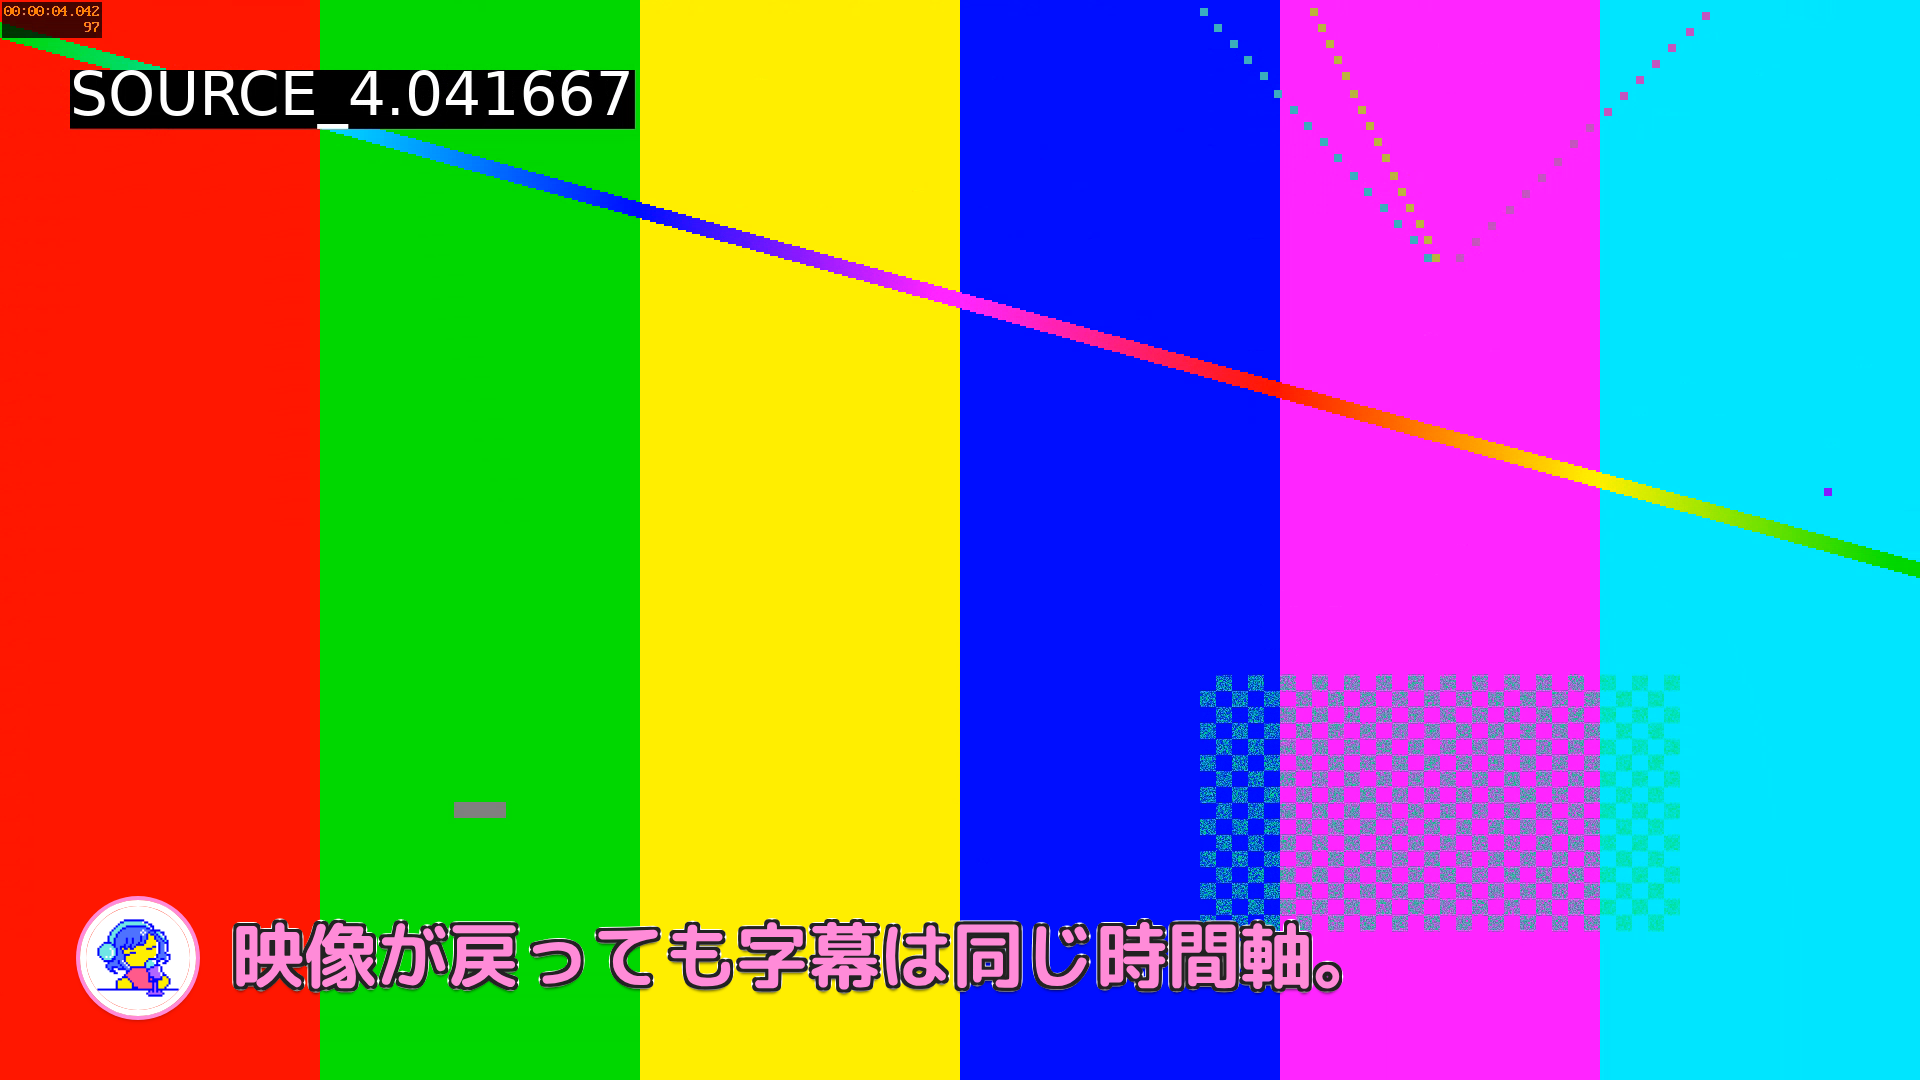
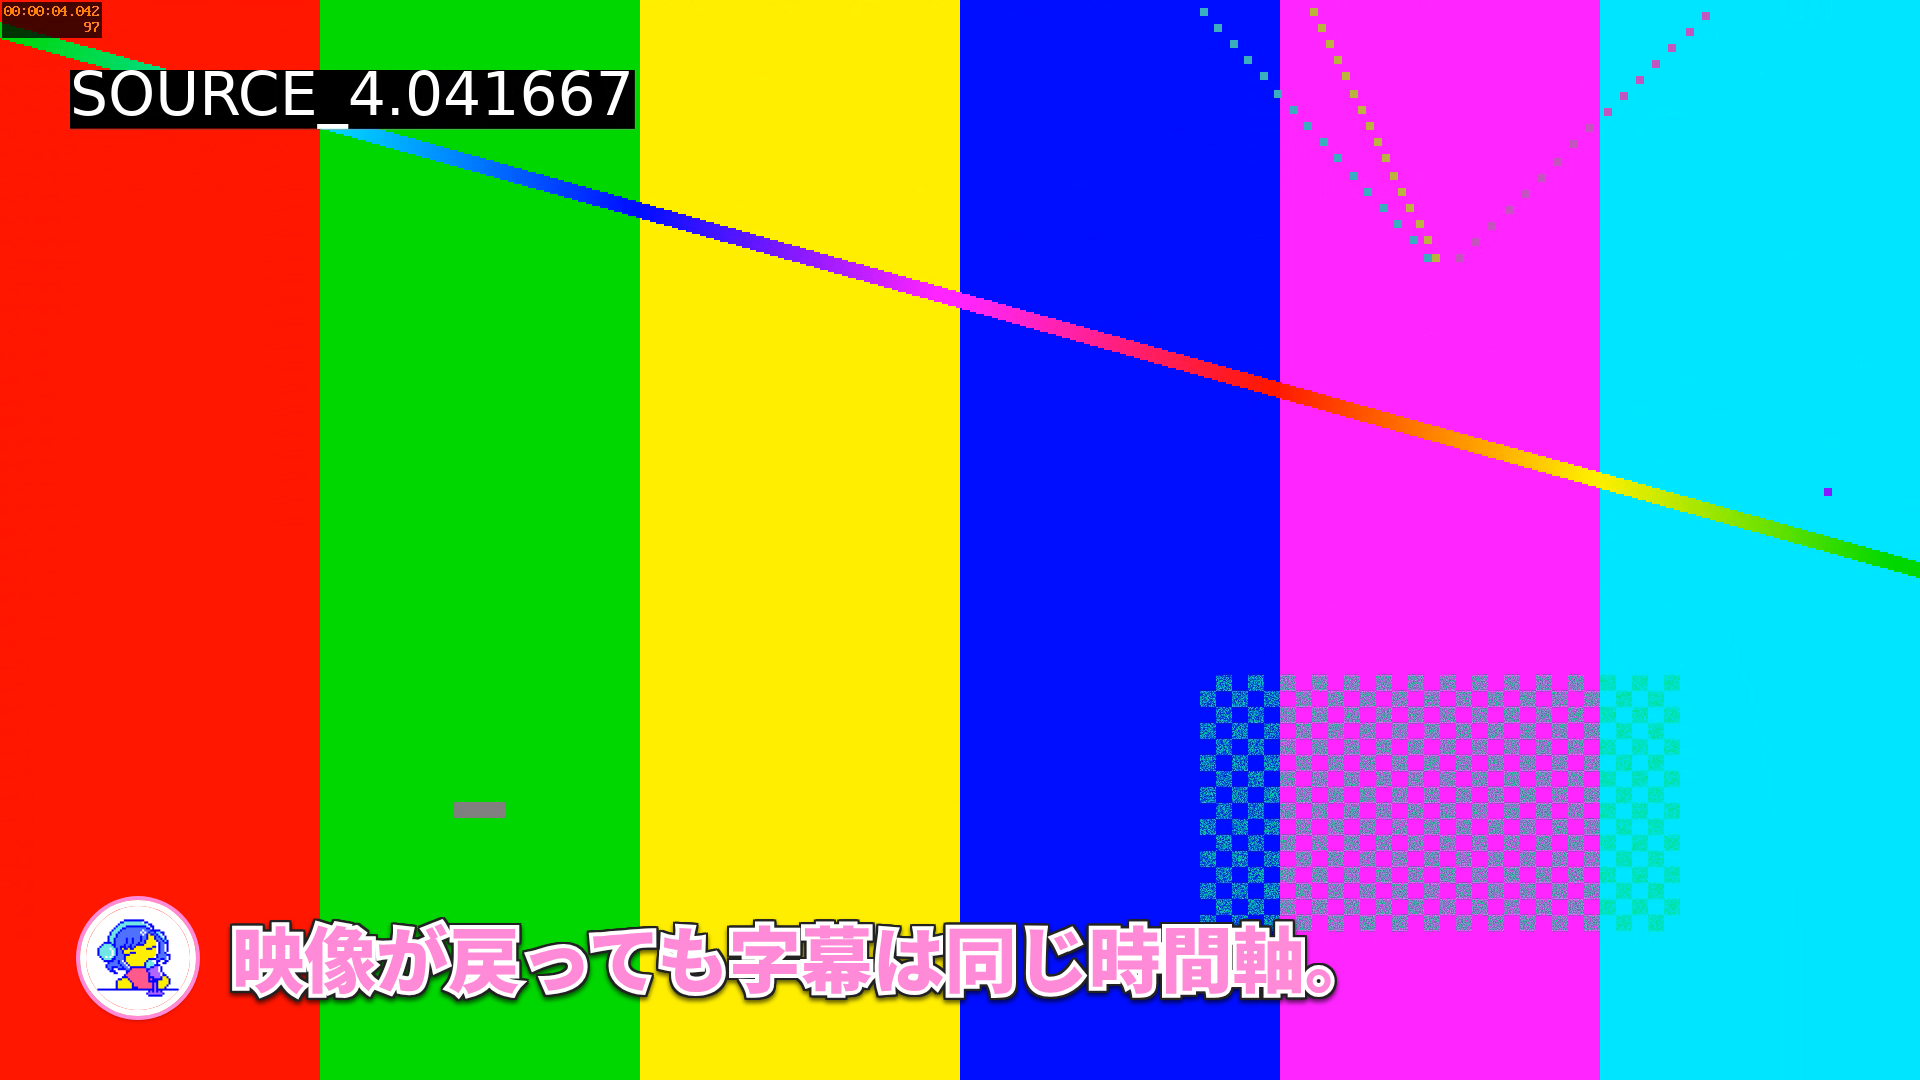
Use Noto Sans JP Black for street video captions

Changed region(s): [[0.0938, 0.8556, 0.7188, 0.9472]]

diff --git a/video/src/episode/EpisodeCaption.tsx b/video/src/episode/EpisodeCaption.tsx
@@ -1,6 +1,8 @@
-import { BODY } from "../Clip";
+import { loadFont } from "@remotion/google-fonts/NotoSansJP";
 import type { CaptionPage } from "../types";
 import { SPEAKER_COLORS } from "./EpisodeSpeakerBar";
+
+const telop = loadFont("normal", { weights: ["900"] });
 
 export function findCaptionPage(pages: CaptionPage[], t: number) {
 	let lo = 0;
@@ -29,16 +31,16 @@ export function EpisodeCaption({
 	return (
 		<div
 			style={{
-				fontFamily: BODY,
-				fontWeight: 700,
+				fontFamily: telop.fontFamily,
+				fontWeight: 900,
 				fontSize: Math.min(72, 1510 / maxChars),
 				lineHeight: 1.3,
 				textAlign: "left",
 				color: SPEAKER_COLORS[page.speaker ?? "guest"],
 				WebkitTextStroke: "8px white",
 				paintOrder: "stroke fill",
-				textShadow:
-					"-3px -3px 0 #222, 3px -3px 0 #222, -3px 3px 0 #222, 3px 3px 0 #222, 0 5px 3px #0009",
+				filter:
+					"drop-shadow(0 2px 0 #222) drop-shadow(0 -2px 0 #222) drop-shadow(2px 0 0 #222) drop-shadow(-2px 0 0 #222) drop-shadow(0 3px 2px #0009)",
 			}}
 		>
 			{page.lines.map((line, li) => (

diff --git a/video/docs/hybrid-episode-video.md b/video/docs/hybrid-episode-video.md
@@ -2,7 +2,7 @@
 
 完成Podcast音声を唯一のmaster timelineにする。前半は従来のEpisode、映像がある区間は実写に切り替える。Remotionは4.0.243のまま。
 
-後半は**発話中のホスト一人のアイコンを字幕の左側**に配置する。暗幕・グラデーション・字幕カードは使わない。michiruはピンク、upamuneは水色の太字に白フチと文字の影を付け、最大2行のYouTube風テロップにする。字幕の話者はCaptionPage.speaker。字幕の保持中もその話者を表示する。
+後半は**発話中のホスト一人のアイコンを字幕の左側**に配置する。暗幕・グラデーション・字幕カードは使わない。michiruはピンク、upamuneは水色の**Noto Sans JP Black（900）**に白フチと文字の影を付け、最大2行のYouTube風テロップにする。字幕の話者はCaptionPage.speaker。字幕の保持中もその話者を表示する。
 
 ## 生素材を置いて実行
 
@@ -170,7 +170,7 @@ bunx tsc --noEmit
 
 合成素材でmic1の30秒を10.25秒＋19.75秒、mic2の25秒を12秒＋13秒に分割し、取り込みから出力まで実行した。mic2の2.13秒差、カメラの10.65秒差を復元し、8秒/192フレームすべてでテスト顔を検出して焼き込んだ。これは実際の二人の声・京都の街中・群衆での検出精度を保証しない。実素材・Resolve実機・Whisperモデル推論はこの環境では未確認。
 
-Remotionは合成映像で両話者の字幕をレンダー。Classicは以前の比較でピクセル差分ゼロ。検証環境はChromium 153、Google Fonts通信制限のためQAのみ同名ローカルTTFを使用。本番のフォント処理は維持する。
+Remotionは合成映像で両話者の字幕をレンダー。Classicは以前の比較でピクセル差分ゼロ。検証環境はChromium 153、Google Fonts通信制限のためQAのみ同名ローカルTTFを使用（Noto Sans JPはGoogle Fonts公式リポジトリの可変TTFを900で描画）。本番のフォント処理は維持する。
 
 ![従来画面](previews/hybrid-classic.png)
 
